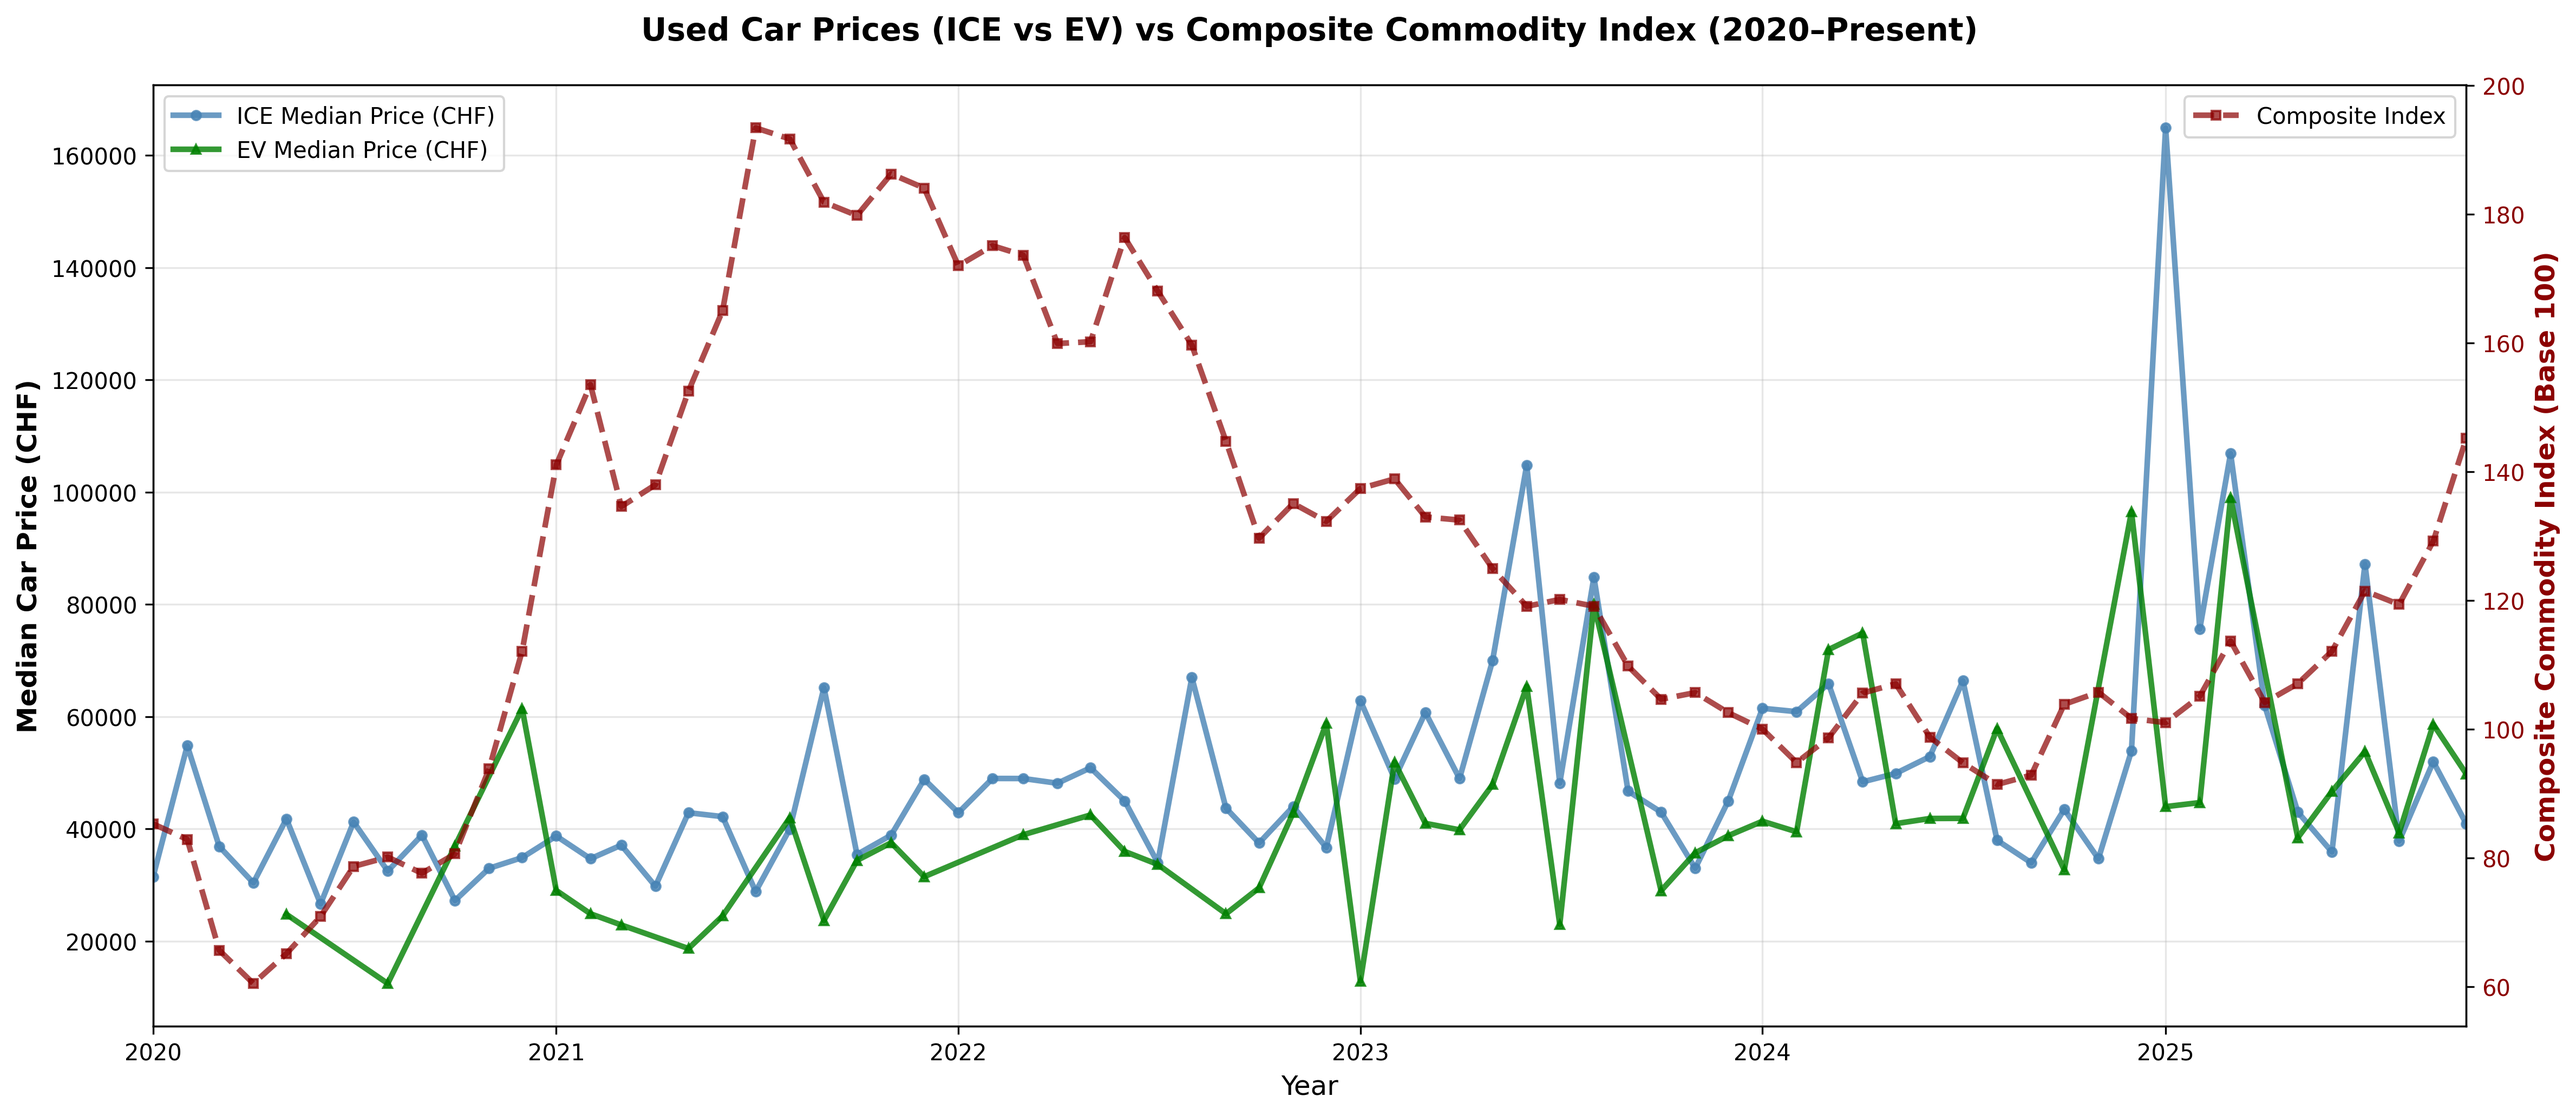
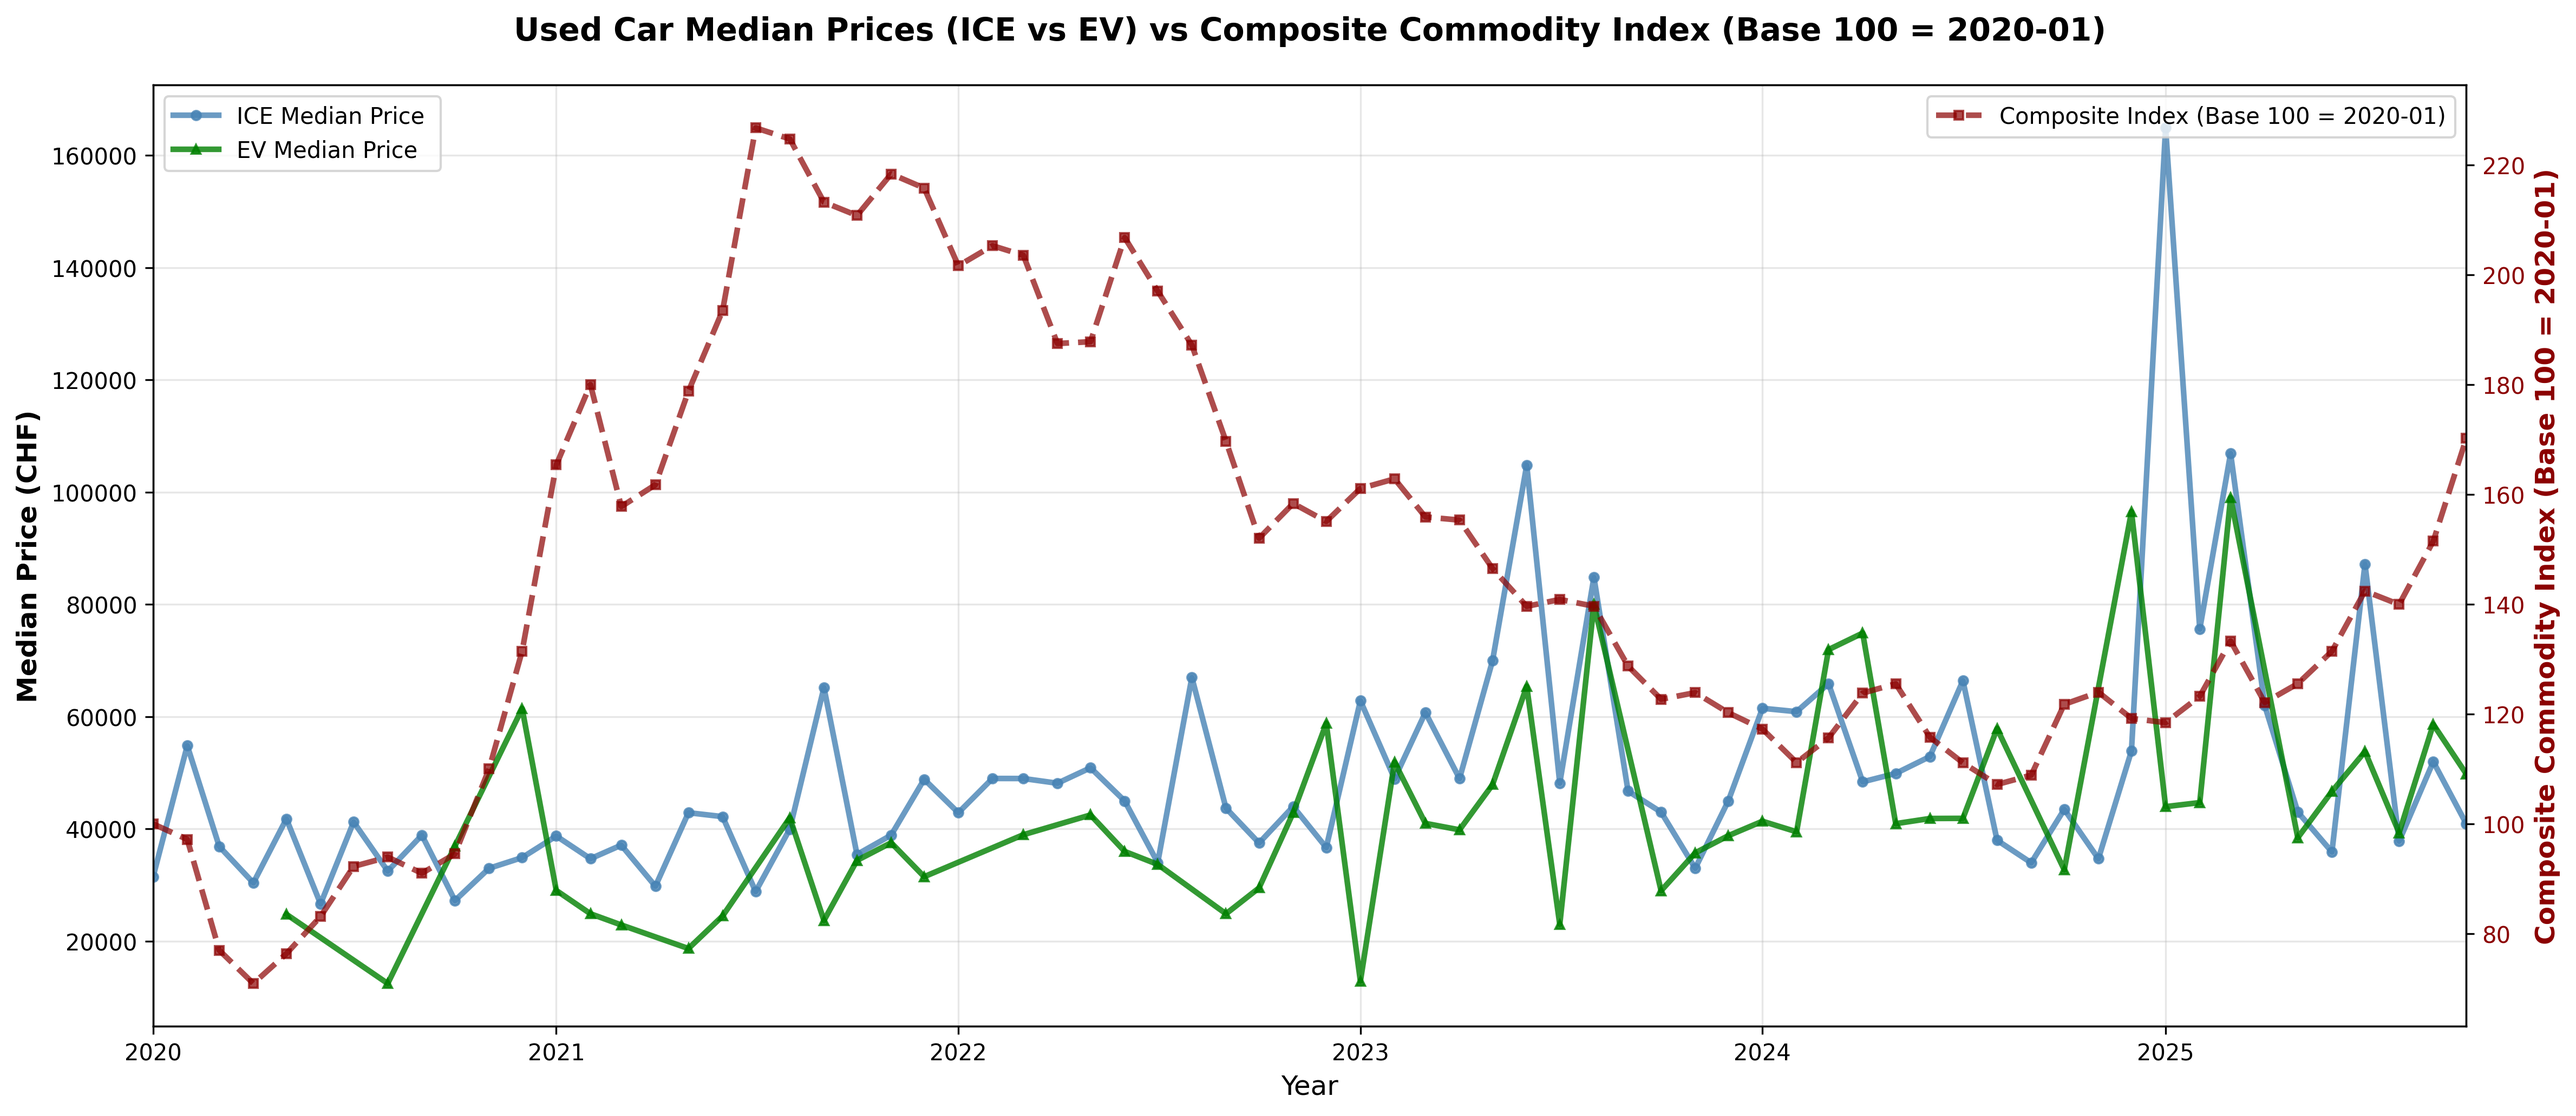
adjusted graphics - RQ1

diff --git a/Analysis/RQ1/RQ1_Analysis.py b/Analysis/RQ1/RQ1_Analysis.py
@@ -43,23 +43,9 @@ weights = {  # only used if we must rebuild composite
     'Lithium_Spot_Monthly_Avg': 0.15,
 }
 
-# 3) COMPOSITE INDEX (use existing; rebuild only if missing)
-print("\n[2] Checking Composite_Index...")
-if 'Composite_Index' not in df.columns:
-    print("   Composite_Index missing → rebuilding (base=first non-null of each series).")
-    # index each monthly series to base=100 and weight
-    comp = 0.0
-    for col in commodity_cols:
-        s = df[col]
-        base = s.dropna().iloc[0]
-        idx = (s / base) * 100.0
-        df[f"{col}_indexed"] = idx
-        comp = comp + idx * weights.get(col, 0.0)
-    df['Composite_Index'] = comp
-else:
-    print("   Composite_Index present.")
 
-# 4) MONTHLY AGG (one row per Month)
+
+# 3) MONTHLY AGG (one row per Month)
 print("\n[3] Aggregating to monthly level...")
 agg_map = {"price_chf": ["median","mean","count"], "mileage": "mean"}
 use_cols = ['Month','price_chf','mileage','Composite_Index'] + commodity_cols
@@ -83,6 +69,24 @@ def _to_month(s):
         except: pass
     return pd.NaT
 monthly["Month_Date"] = monthly["Month"].apply(_to_month)
+
+# 4) COMPOSITE INDEX (use existing; rebuild only if missing)
+print("\n[2] Checking Composite_Index...")
+if 'Composite_Index' not in df.columns:
+    print("   Composite_Index missing → rebuilding (base=first non-null of each series).")
+    # index each monthly series to base=100 and weight
+    comp = 0.0
+    for col in commodity_cols:
+        s = df[col]
+        base = s.dropna().iloc[0]
+        idx = (s / base) * 100.0
+        df[f"{col}_indexed"] = idx
+        comp = comp + idx * weights.get(col, 0.0)
+    df['Composite_Index'] = comp
+else:
+    print("   Composite_Index present.")
+
+
 
 # 5) CORRELATIONS (drop NA pairs)
 print("\n[4] Computing correlations...")
@@ -113,8 +117,6 @@ for col in commodity_cols:
 # 6) PLOTS
 print("\n[5] Creating visualizations...")
 
-# --- Time series (dual axis)
-
 # --- Filter from 2020-01-01 and sort
 start_date = pd.Timestamp("2020-01-01")
 monthly_filtered = (
@@ -122,6 +124,18 @@ monthly_filtered = (
            .sort_values("Month_Date")
            .copy()
 )
+
+# --- INDEX PRICES TO BASE 100 AT 2020-01 ---
+base_jan_2020 = monthly_filtered[monthly_filtered["Month_Date"] == start_date]
+
+if len(base_jan_2020) > 0:
+    base_composite = base_jan_2020["Composite_Index"].iloc[0]
+    monthly_filtered["Composite_Index_Indexed"] = (monthly_filtered["Composite_Index"] / base_composite) * 100
+else:
+    # If no data at exactly 2020-01, use first available
+    base_composite = monthly_filtered["Composite_Index"].iloc[0]
+    monthly_filtered["Composite_Index_Indexed"] = (monthly_filtered["Composite_Index"] / base_composite) * 100
+    print(f"   ⚠ No data at 2020-01-01, using first month: {monthly_filtered['Month_Date'].iloc[0]}")
 
 # --- Time series (dual axis)
 
@@ -153,6 +167,15 @@ if 'power_mode' in df.columns:
     # Filter from 2020
     monthly_by_type_filtered = monthly_by_type[monthly_by_type["Month_Date"] >= pd.Timestamp("2020-01-01")].copy()
     
+    # --- INDEX PRICES TO BASE 100 AT 2020-01 FOR EACH TYPE ---
+    for vtype in ['ICE', 'EV']:
+        type_data = monthly_by_type_filtered[monthly_by_type_filtered['vehicle_type'] == vtype].sort_values('Month_Date')
+        if len(type_data) > 0:
+            base_price = type_data.iloc[0]['median_price']
+            monthly_by_type_filtered.loc[monthly_by_type_filtered['vehicle_type'] == vtype, 'median_price_indexed'] = (
+                monthly_by_type_filtered.loc[monthly_by_type_filtered['vehicle_type'] == vtype, 'median_price'] / base_price
+            ) * 100
+    
     # Separate EV and ICE
     ice_data = monthly_by_type_filtered[monthly_by_type_filtered['vehicle_type'] == 'ICE'].sort_values('Month_Date')
     ev_data = monthly_by_type_filtered[monthly_by_type_filtered['vehicle_type'] == 'EV'].sort_values('Month_Date')
@@ -160,32 +183,33 @@ if 'power_mode' in df.columns:
     print(f"   ICE: {len(ice_data)} months, {ice_data['car_count'].sum():.0f} cars")
     print(f"   EV:  {len(ev_data)} months, {ev_data['car_count'].sum():.0f} cars")
     
-    # --- Time series plot with TWO price lines
+    
+    # --- Time series plot with TWO price lines (INDEXED)
     fig, ax1 = plt.subplots(figsize=(16, 7))
     
-    # Plot ICE prices (blue)
+    # Plot ICE prices indexed (blue)
     if len(ice_data) > 0:
         ax1.plot(ice_data["Month_Date"], ice_data["median_price"],
-                 linewidth=2.5, marker="o", ms=4, label="ICE Median Price (CHF)", 
+                 linewidth=2.5, marker="o", ms=4, label="ICE Median Price ", 
                  color='steelblue', alpha=0.8)
     
-    # Plot EV prices (green)
+    # Plot EV prices indexed (green)
     if len(ev_data) > 0:
         ax1.plot(ev_data["Month_Date"], ev_data["median_price"],
-                 linewidth=2.5, marker="^", ms=4, label="EV Median Price (CHF)", 
+                 linewidth=2.5, marker="^", ms=4, label="EV Median Price", 
                  color='green', alpha=0.8)
     
-    ax1.set_ylabel("Median Car Price (CHF)", fontsize=12, fontweight='bold')
+    ax1.set_ylabel("Median Price (CHF)", fontsize=12, fontweight='bold')
     ax1.set_xlabel("Year", fontsize=12)
     ax1.legend(loc='upper left', fontsize=10)
     ax1.grid(True, alpha=0.3)
     
-    # Second axis for Composite Index
+    # Second axis for Composite Index (also indexed)
     ax2 = ax1.twinx()
-    ax2.plot(monthly_filtered["Month_Date"], monthly_filtered["Composite_Index"],
+    ax2.plot(monthly_filtered["Month_Date"], monthly_filtered["Composite_Index_Indexed"],
              linestyle="--", linewidth=2.5, marker="s", ms=4, 
-             label="Composite Index", color="darkred", alpha=0.7)
-    ax2.set_ylabel("Composite Commodity Index (Base 100)", fontsize=12, fontweight='bold', color='darkred')
+             label="Composite Index (Base 100 = 2020-01)", color="darkred", alpha=0.7)
+    ax2.set_ylabel("Composite Commodity Index (Base 100 = 2020-01)", fontsize=12, fontweight='bold', color='darkred')
     ax2.tick_params(axis='y', labelcolor='darkred')
     ax2.legend(loc='upper right', fontsize=10)
     
@@ -194,12 +218,12 @@ if 'power_mode' in df.columns:
     xmax = monthly_by_type_filtered["Month_Date"].max()
     ax1.set_xlim(left=xmin, right=xmax)
     
-    plt.title("Used Car Prices (ICE vs EV) vs Composite Commodity Index (2020–Present)", 
+    plt.title("Used Car Median Prices (ICE vs EV) vs Composite Commodity Index (Base 100 = 2020-01)", 
               fontsize=14, fontweight='bold', pad=20)
     fig.tight_layout()
     plt.savefig(f"{OUTDIR}/RQ1_timeseries.png", dpi=300, bbox_inches="tight")
     plt.close()
-    print("   ✓ Saved: RQ1_timeseries_by_powermode.png")
+    print("   ✓ Saved: RQ1_timeseries.png")
 
 # Scatter
 fig, ax = plt.subplots(figsize=(10,7))
@@ -214,54 +238,6 @@ plt.title('Correlation: Car Prices vs Composite Index')
 fig.tight_layout(); plt.savefig(f"{OUTDIR}/RQ1_scatter.png", dpi=300); plt.close()
 print("   ✓ Saved: RQ1_scatter.png")
 
-# Heatmap (only available cols)
-# ---- Correlation heatmap (clean layout, no index/columns name shown)
-
-# Define row and column structure
-row_vars = ['median_price', 'avg_mileage']
-col_vars = commodity_cols + ['avg_age']  # Commodities + avg_age
-
-# Filter only available columns
-row_vars = [c for c in row_vars if c in monthly.columns]
-col_vars = [c for c in col_vars if c in monthly.columns]
-
-# Calculate correlations between rows and columns
-corr_data = monthly[row_vars + col_vars].corr()
-corr_subset = corr_data.loc[row_vars, col_vars]
-
-# Create figure
-fig, ax = plt.subplots(figsize=(12, 6))
-
-# Create heatmap (no mask needed since it's not square)
-sns.heatmap(corr_subset, annot=True, fmt='.3f', cmap='RdYlGn', 
-            center=0, linewidths=0.8, 
-            cbar_kws={"shrink": 0.8}, vmin=-1, vmax=1, ax=ax)
-
-# Improve labels
-ax.set_xticklabels(ax.get_xticklabels(), rotation=45, ha='right', fontsize=10)
-ax.set_yticklabels(ax.get_yticklabels(), rotation=0, fontsize=10)
-
-# Title
-plt.title('RQ1: Correlation Matrix - Prices vs Commodities & Controls', 
-          fontsize=14, fontweight='bold', pad=20)
-
-plt.tight_layout()
-plt.savefig(f"{OUTDIR}/RQ1_heatmap.png", dpi=300, bbox_inches='tight')
-plt.close()
-print("   ✓ Saved: RQ1_heatmap.png")
-
-
-# tidy ticks
-ax.set_xticklabels(ax.get_xticklabels(), rotation=45, ha="right")
-ax.set_yticklabels(ax.get_yticklabels(), rotation=0)
-ax.tick_params(axis='both', labelsize=10)
-
-ax.set_title('Correlation Matrix: Prices, Commodity Indices & Controls', pad=14, fontsize=13)
-
-plt.tight_layout()
-plt.savefig(f"{OUTDIR}/RQ1_heatmap.png", dpi=300, bbox_inches="tight")
-plt.close()
-
 # 8) SUMMARY
 print("\n" + "="*80)
 print("RQ1 ANALYSIS COMPLETE")
@@ -273,3 +249,6 @@ if indiv:
     strongest = max(indiv.items(), key=lambda kv: abs(kv[1]["pearson_r"]))
     print(f"   • Strongest commodity: {strongest[0].replace('_Spot_Monthly_Avg','')} (r={strongest[1]['pearson_r']:+.3f})")
 print(f"Outputs → {OUTDIR}/")
+
+
+df[['Month','Composite_Index']]
